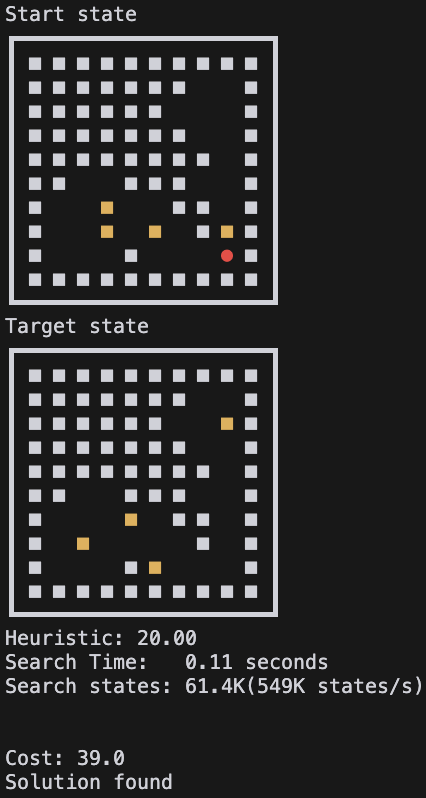
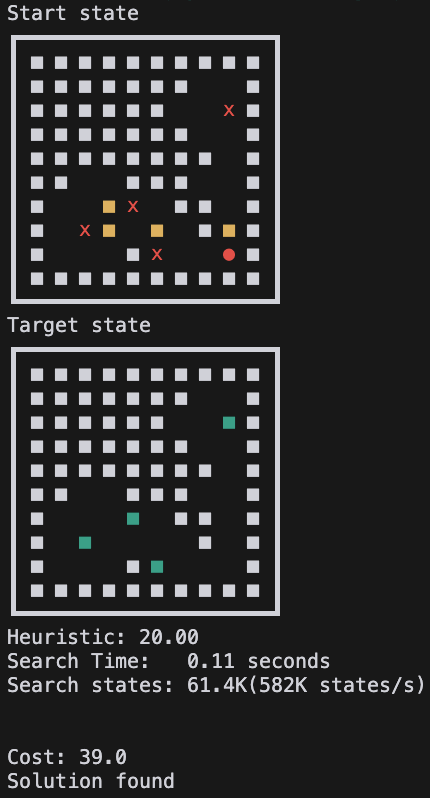
update solve imgs

diff --git a/puzzle/sokoban.py b/puzzle/sokoban.py
@@ -103,6 +103,12 @@ class Sokoban(Puzzle):
         else:
             raise ValueError(f"Invalid action: {action}")
 
+    def get_solve_config_string_parser(self):
+        def parser(solve_config: "Sokoban.SolveConfig", **kwargs):
+            return solve_config.TargetState.str(solve_config=solve_config)
+
+        return parser
+
     def get_string_parser(self):
         form = self._get_visualize_format()
 
